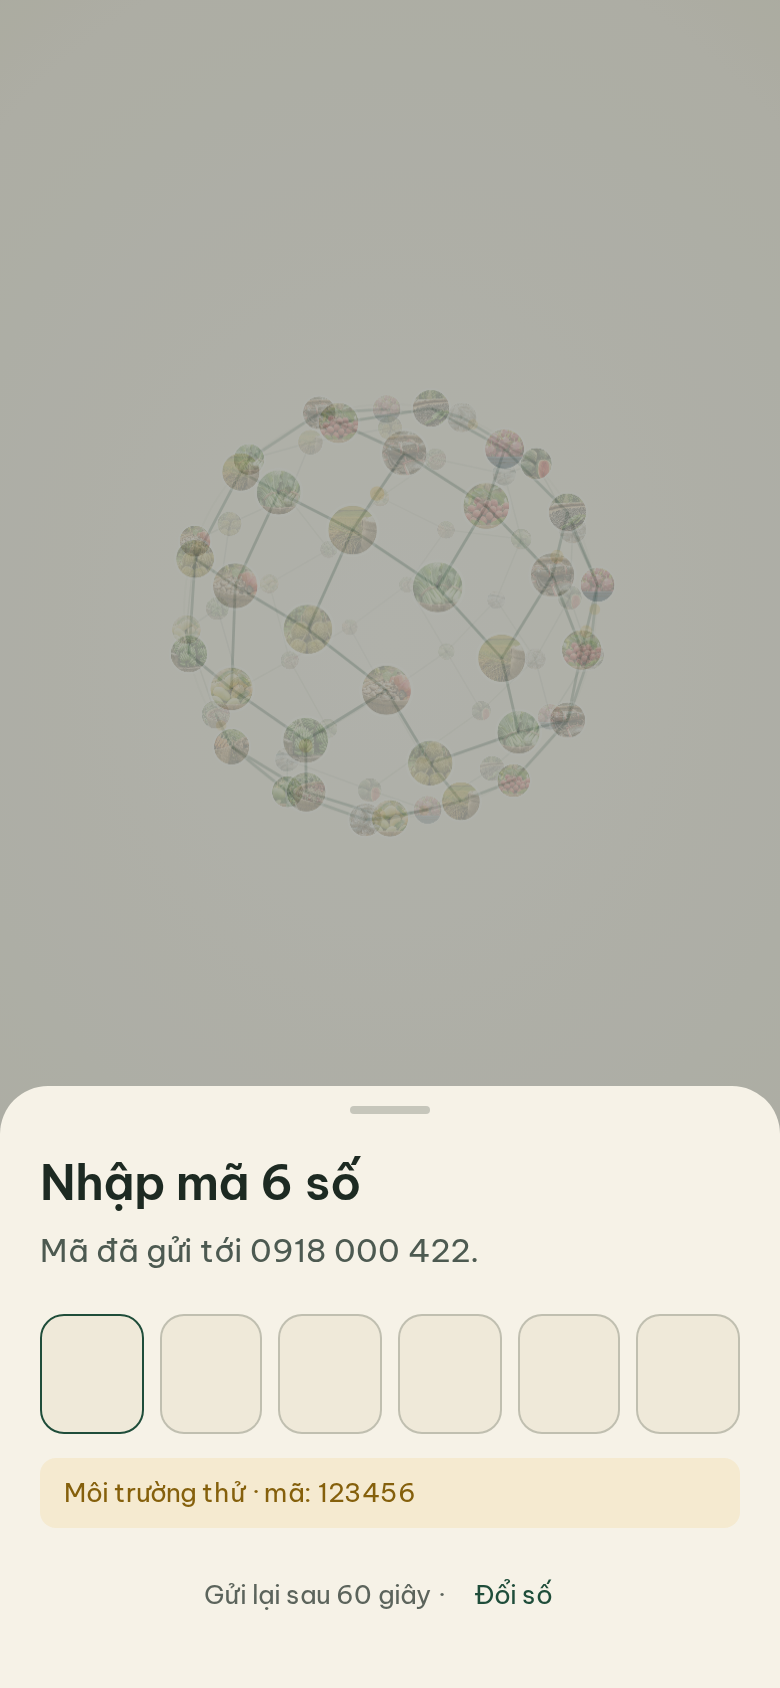
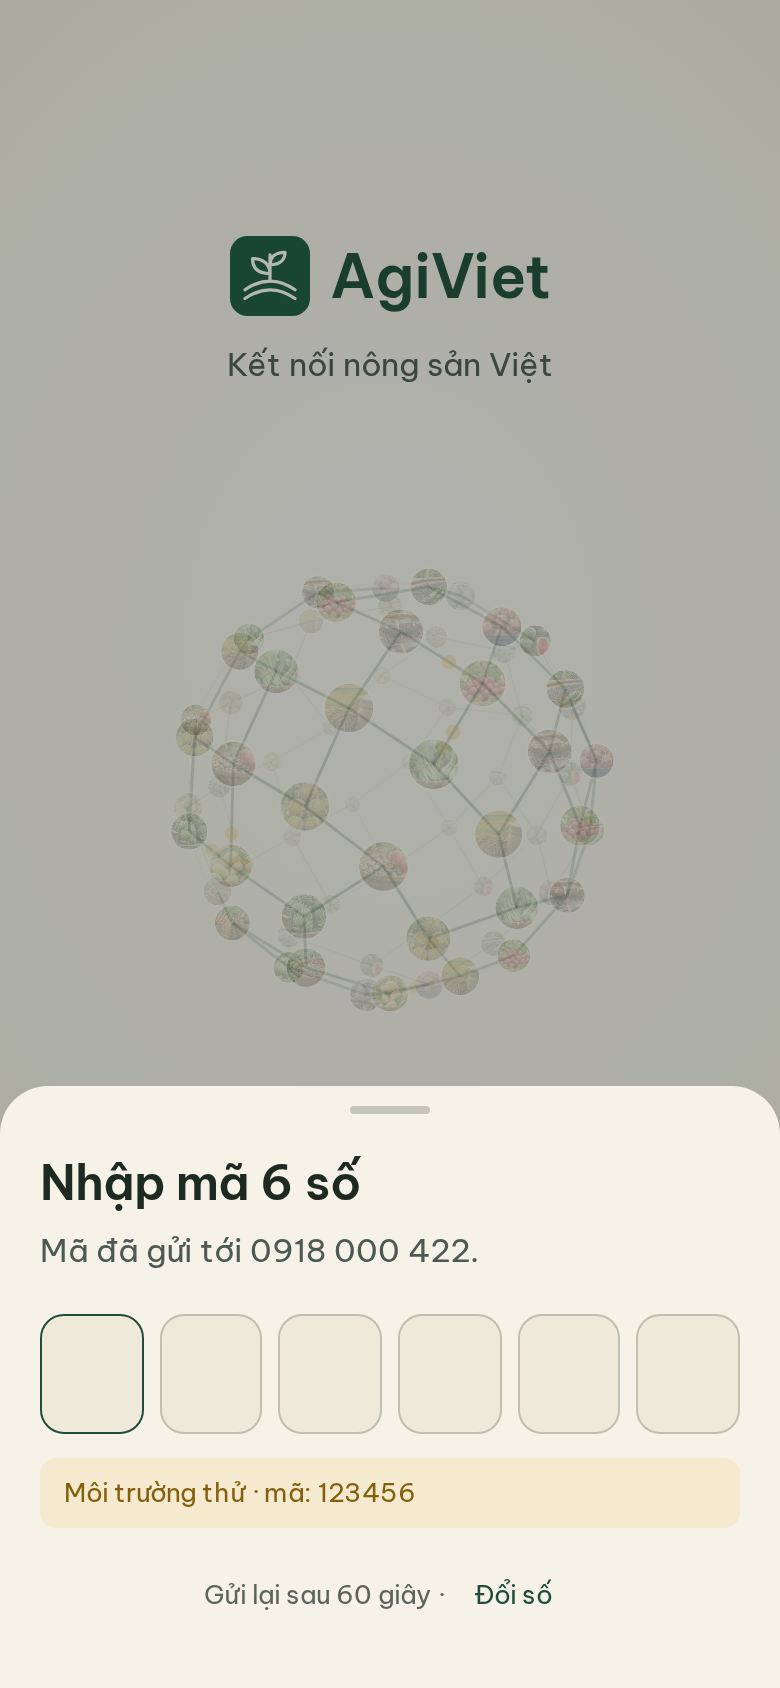
Giao diện bán: header Hỗ trợ + chuông thông báo, menu dưới 5 mục biểu tượng rỗng/tô đặc, lô lưới 2 cột; Đăng nhập: AgiViet trên quả cầu, nút ngay dưới

diff --git a/frontend/thiet-ke/ban-hom-nay.html b/frontend/thiet-ke/ban-hom-nay.html
@@ -9,13 +9,7 @@
 </head>
 <body>
 <div class="trang">
-  <header class="dau">
-    <div class="dau-trai">
-      <span class="anh-dai-dien" id="chu-dau">AV</span>
-      <div><p class="chao" id="chao">AgiViet</p><h1 id="ten-ho" style="font-size:18px">Hôm nay</h1></div>
-    </div>
-    <button class="nut-chu" type="button">Hỗ trợ</button>
-  </header>
+  <header class="dau" id="dau"></header>
 
   <main class="noi" id="noi" aria-busy="true">
     <section class="chinh co-trau" aria-live="polite">
@@ -35,7 +29,7 @@
 
     <section class="muc" aria-labelledby="t-lo">
       <h3 id="t-lo"><span>Hàng đang bán</span><a href="./ban-hang-hoa.html">Xem hết</a></h3>
-      <div class="ke-ngang" id="ds-lo"><div class="khung-tai" style="flex:0 0 72%"></div></div>
+      <div class="luoi-lo" id="ds-lo"><div class="khung-tai"></div><div class="khung-tai"></div></div>
     </section>
 
     <section class="muc" aria-labelledby="t-tien">
@@ -55,19 +49,13 @@
     </section>
   </main>
 
-  <nav class="tab" aria-label="Mục chính">
-    <a href="#" aria-current="page">Hôm nay</a>
-    <a href="./ban-hang-hoa.html">Hàng hóa</a>
-    <a href="#">Bên mua</a>
-    <a href="#">Hợp đồng</a>
-    <a href="#">Tiền</a>
-  </nav>
 </div>
 
 <script src="/assets/vendor/rive/rive.js"></script>
 <script type="module">
-import { tien, tienDu, can, esc, so, phien, layDuLieu, ANH_SP, viecCho, CHANG, chiSoChang, LUOT, dangLam, giuThamSo } from "./chung.js";
-giuThamSo();
+import { tien, tienDu, can, esc, so, phien, layDuLieu, ANH_SP, viecCho, CHANG, chiSoChang, LUOT, dangLam, giuThamSo, veDau, veTab } from "./chung.js";
+veTab("trang-chu");
+veDau(document.getElementById("dau"), { chao: "Chào bác", ten: "AgiViet", chuDau: "·" });
 const $ = (id) => document.getElementById(id);
 try {
   rive.RuntimeLoader.setWasmUrl("/assets/vendor/rive/rive.wasm");
@@ -89,9 +77,10 @@ async function mo() {
   const { me, tienTom, troi, tenSp } = d;
   const don = d.don.filter(dangLam);                       // chỉ hợp đồng còn đang chạy
   const lo = d.lo.filter((l) => l.status === "on_sale" && !l.an_tu_dong);   // lô bên mua đang thấy
-  $("chao").textContent = `Chào ${me.name.split(" ").at(-1)}`;
-  $("ten-ho").textContent = me.org.name;
-  $("chu-dau").textContent = me.name.split(" ").at(-1).charAt(0).toUpperCase();
+  // Số thông báo chưa đọc lấy từ backend (lỗi tải thì không hiện chấm)
+  const tb = await fetch("/v1/notifications", { headers: { authorization: "Bearer " + token } }).then((x) => (x.ok ? x.json() : [])).catch(() => []);
+  const chuaDoc = (Array.isArray(tb) ? tb : tb.items || []).filter((n) => !n.read_at && !n.da_doc).length;
+  veDau($("dau"), { chao: `Chào ${me.name.split(" ").at(-1)}`, ten: me.org.name, chuDau: me.name.split(" ").at(-1).charAt(0).toUpperCase(), soThongBao: chuaDoc });
   $("ngay").textContent = new Date().toLocaleDateString("vi-VN", { weekday: "long", day: "numeric", month: "numeric" });
 
   const toiBac = don.filter((d) => d.hien_thi?.toi_luot?.phia === d.phia_cua_ban);
@@ -120,19 +109,17 @@ async function mo() {
       <div class="cho-ai"><span class="dau-luot ${lop}">${esc(ai)}</span><span>${esc(viecCho(d))}</span></div></a>`;
   }).join("") : `<p class="bao" style="margin-top:12px">Khi bác đồng ý một lời chào giá, hợp đồng sẽ hiện ở đây.</p>`;
 
-  $("ds-lo").innerHTML = lo.length ? lo.map((l) => {
+  $("ds-lo").innerHTML = lo.length ? lo.slice(0, 4).map((l) => {
     const [soKg, dvKg] = can(l.available_g);
-    // Trong vòng tròn nhỏ ghi gọn theo tấn; số kg đầy đủ ở nhãn đọc màn hình
-    const kg = Number(l.available_g || 0) / 1000;
-    const [so, dv] = kg >= 1000 ? [(kg / 1000).toLocaleString("vi-VN", { maximumFractionDigits: 1 }), "tấn"] : [soKg, dvKg];
     const ti = Math.max(0, Math.min(1, Number(l.available_g) / Number(l.declared_qty_g || l.available_g || 1)));
-    const C = 2 * Math.PI * 24;
     const anh = ANH_SP(l.product_code);
     return `<a class="the-lo" href="./ban-hang-hoa.html">
-      <div class="anh ${anh ? "" : "anh-trong"}" ${anh ? `style="background-image:url(${anh})"` : ""}>${anh ? '<span class="nhan-minh-hoa">Ảnh minh họa</span>' : ""}<span class="nhan-lo">${esc(l.code)} · Loại ${esc(l.grade_code.replace(/^L/, ""))}</span></div>
-      <div class="than"><div><p class="ten">${esc(tenSp.get(l.product_code) || l.product_code)}</p><p class="phu">${l.qty_basis === "estimated" ? "Lượng ước tính" : "Đã cân"}</p></div>
-        <span class="vong" role="img" aria-label="Còn ${soKg} ${dvKg}" title="Còn ${soKg} ${dvKg}"><svg viewBox="0 0 56 56"><circle cx="28" cy="28" r="24" fill="none" stroke="var(--ke-dam)" stroke-width="5"/><circle cx="28" cy="28" r="24" fill="none" stroke="var(--la)" stroke-width="5" stroke-linecap="round" stroke-dasharray="${C * ti} ${C}"/></svg><b>${so}<small>${dv}</small></b></span></div></a>`;
-  }).join("") : `<p class="bao">Bác chưa có lô nào đang bán.</p>`;
+      <div class="anh ${anh ? "" : "anh-trong"}" ${anh ? `style="background-image:url(${anh})"` : ""}><span class="nhan-lo">${esc(l.code)}</span></div>
+      <div class="than"><p class="ten">${esc(tenSp.get(l.product_code) || l.product_code)}</p>
+        <p class="so-con">${soKg}<small>${dvKg} còn</small></p>
+        <span class="thanh-con" role="img" aria-label="Còn ${(ti * 100).toFixed(0)}% lượng đăng"><span style="width:${(ti * 100).toFixed(0)}%"></span></span>
+        <p class="phu">Loại ${esc(l.grade_code.replace(/^L/, ""))} · ${l.qty_basis === "estimated" ? "ước tính" : "đã cân"}</p></div></a>`;
+  }).join("") : `<p class="bao" style="grid-column:1/-1">Bác chưa có lô nào đang bán.</p>`;
 
   const tongHd = don.reduce((s, d) => s + Number(d.contract_value_vnd || 0), 0);
   const t = tienTom.tong, coc = +t.coc_dang_giu || 0, nhan = (+t.da_nhan_truc_tiep || 0) + (+t.ngan_hang_da_chuyen_den || 0), con = +t.con_phai_nhan || 0;

diff --git a/frontend/thiet-ke/so-vuon.css b/frontend/thiet-ke/so-vuon.css
@@ -55,9 +55,13 @@ p { margin: 0; text-wrap: pretty; }
 
 /* Khung app */
 .trang { max-width: 480px; margin: 0 auto; min-height: 100dvh; display: flex; flex-direction: column; }
-.dau { padding: var(--k4) var(--k4) var(--k3); display: flex; align-items: baseline; justify-content: space-between; gap: var(--k3); }
+.dau { padding: var(--k3) var(--k4); display: flex; align-items: center; justify-content: space-between; gap: var(--k3); position: sticky; top: 0; z-index: 5; background: var(--giay); border-bottom: 1px solid var(--ke); }
 .dau .chao { font-size: var(--c-ghi); color: var(--muc-nhat); }
-.dau h1 { font-size: var(--c-tieu); font-weight: 600; letter-spacing: -0.01em; }
+.dau h1 { font-size: 17px; font-weight: 600; letter-spacing: -0.01em; line-height: 1.25; }
+.dau-phai { display: flex; gap: 4px; }
+.nut-tron { width: 44px; height: 44px; border-radius: 50%; display: grid; place-items: center; color: var(--muc); position: relative; background: var(--giay-noi); border: 1px solid var(--ke); }
+.cham-moi { position: absolute; top: 9px; right: 10px; width: 9px; height: 9px; border-radius: 50%; background: #2f9e5b; box-shadow: 0 0 0 2px var(--giay-noi); }
+.an-chu { position: absolute; width: 1px; height: 1px; overflow: hidden; clip: rect(0 0 0 0); }
 .nut-chu { font: 600 var(--c-ghi)/1 var(--chu); color: var(--la); background: none; border: 0; padding: var(--k3) var(--k2); margin: calc(-1 * var(--k3)) calc(-1 * var(--k2)); min-height: 44px; cursor: pointer; }
 .noi { flex: 1; padding: 0 var(--k4) var(--k8); display: flex; flex-direction: column; gap: var(--k6); }
 
@@ -110,9 +114,10 @@ p { margin: 0; text-wrap: pretty; }
 
 /* Tab dưới: chữ, không biểu tượng */
 .tab { position: sticky; bottom: 0; display: grid; grid-template-columns: repeat(5, 1fr); background: var(--giay); border-top: 1px solid var(--ke-dam); padding-bottom: env(safe-area-inset-bottom); }
-.tab a { min-height: 56px; display: flex; align-items: center; justify-content: center; text-align: center; font-size: var(--c-ghi); font-weight: 600; color: var(--muc-nhat); text-decoration: none; line-height: 1.2; padding: 0 2px; position: relative; }
-.tab a[aria-current="page"] { color: var(--la); }
-.tab a[aria-current="page"]::before { content: ""; position: absolute; top: 0; left: 25%; right: 25%; height: 3px; background: var(--la); border-radius: 0 0 3px 3px; }
+.tab a { min-height: 60px; display: flex; flex-direction: column; align-items: center; justify-content: center; gap: 3px; text-align: center; font-size: var(--c-ghi); font-weight: 500; color: var(--muc-nhat); text-decoration: none; line-height: 1.15; padding: 6px 2px; position: relative; -webkit-tap-highlight-color: transparent; }
+.tab .ic { position: relative; display: grid; place-items: center; }
+.tab .ic .cham-moi { top: -2px; right: -4px; box-shadow: 0 0 0 2px var(--giay); }
+.tab a[aria-current="page"] { color: var(--la); font-weight: 600; }
 
 /* Trạng thái tải / trống / lỗi */
 .khung-tai { height: 64px; border-bottom: 1px solid var(--ke); background: linear-gradient(90deg, transparent, var(--giay-lot), transparent) 0 0 / 200% 100%; animation: tai 1.2s linear infinite; }
@@ -185,3 +190,13 @@ p { margin: 0; text-wrap: pretty; }
 .anh-trong { background: repeating-linear-gradient(135deg, var(--giay-lot) 0 10px, var(--giay) 10px 20px) !important; }
 .nhan-minh-hoa { position: absolute; right: 8px; top: 8px; font-size: 13px; padding: 2px 8px; border-radius: 999px; background: rgba(255,255,255,.85); color: var(--muc-phu); }
 .chua-co { opacity: .6; }
+
+/* Lô hàng: lưới 2 cột, không cuộn ngang */
+.luoi-lo { display: grid; grid-template-columns: 1fr 1fr; gap: 10px; margin-top: var(--k3); }
+.luoi-lo .the-lo { flex: none; }
+.luoi-lo .the-lo .anh { aspect-ratio: 4 / 3; }
+.luoi-lo .the-lo .than { padding: 10px 12px 12px; flex-direction: column; align-items: flex-start; gap: 6px; }
+.luoi-lo .so-con { font-size: 15px; font-weight: 600; font-variant-numeric: tabular-nums; }
+.luoi-lo .so-con small { font-weight: 400; color: var(--muc-nhat); margin-left: 2px; }
+.thanh-con { height: 6px; border-radius: 3px; background: var(--ke); width: 100%; overflow: hidden; }
+.thanh-con span { display: block; height: 100%; background: var(--la); }

diff --git a/frontend/thiet-ke/chung.js b/frontend/thiet-ke/chung.js
@@ -74,3 +74,35 @@ export async function layDuLieu(token) {
   const tenSp = new Map((sp.__loi ? [] : Array.isArray(sp) ? sp : sp.items || []).map((p) => [p.code, p.name_vi || p.name]));
   return { me, don, lo, tienTom, troi, tenSp };
 }
+
+// ---- Biểu tượng nét (viền rỗng) / đặc (đang chọn). Không hiệu ứng rê chuột. ----
+const IC = {
+  "trang-chu": ['<path d="M3 10.5 12 3l9 7.5V20a1 1 0 0 1-1 1h-5v-6h-6v6H4a1 1 0 0 1-1-1z"/>', '<path d="M3 10.5 12 3l9 7.5V20a1 1 0 0 1-1 1h-5v-6h-6v6H4a1 1 0 0 1-1-1z" fill="currentColor"/>'],
+  cho: ['<path d="M4 9h16l-1.2 11.1a1 1 0 0 1-1 .9H6.2a1 1 0 0 1-1-.9z"/><path d="M8.5 9V7a3.5 3.5 0 0 1 7 0v2"/>', '<path d="M4 9h16l-1.2 11.1a1 1 0 0 1-1 .9H6.2a1 1 0 0 1-1-.9z" fill="currentColor"/><path d="M8.5 9V7a3.5 3.5 0 0 1 7 0v2"/>'],
+  "dang-bai": ['<rect x="3.5" y="3.5" width="17" height="17" rx="4"/><path d="M12 8v8M8 12h8"/>', '<rect x="3.5" y="3.5" width="17" height="17" rx="4" fill="currentColor"/><path d="M12 8v8M8 12h8" stroke="#f6f2e7"/>'],
+  "tin-nhan": ['<path d="M4 5h16v11H9l-5 4z"/>', '<path d="M4 5h16v11H9l-5 4z" fill="currentColor"/>'],
+  tien: ['<rect x="3" y="6" width="18" height="13" rx="2.5"/><path d="M3 10h18M16 14.5h2"/>', '<rect x="3" y="6" width="18" height="13" rx="2.5" fill="currentColor"/><path d="M3 10h18M16 14.5h2" stroke="#f6f2e7"/>'],
+  "ho-tro": ['<path d="M4 14v-2a8 8 0 0 1 16 0v2"/><rect x="3" y="13.5" width="4.5" height="6" rx="1.5"/><rect x="16.5" y="13.5" width="4.5" height="6" rx="1.5"/><path d="M19 19.5a3 3 0 0 1-3 2.5h-3"/>', ""],
+  chuong: ['<path d="M6 16V11a6 6 0 0 1 12 0v5l1.5 2h-15z"/><path d="M10 20.5a2 2 0 0 0 4 0"/>', ""],
+};
+export const bieuTuong = (ten, dac = false) => `<svg viewBox="0 0 24 24" width="24" height="24" aria-hidden="true" fill="none" stroke="currentColor" stroke-width="1.8" stroke-linecap="round" stroke-linejoin="round">${IC[ten][dac && IC[ten][1] ? 1 : 0]}</svg>`;
+
+// Thanh menu dưới dùng chung: Trang chủ · Chợ · Đăng bài · Tin nhắn · Tiền
+const MUC_TAB = [["trang-chu", "Trang chủ", "./ban-hom-nay.html"], ["cho", "Chợ", "./ban-hang-hoa.html"], ["dang-bai", "Đăng bài", "#dang-bai"],
+  ["tin-nhan", "Tin nhắn", "#tin-nhan"], ["tien", "Tiền", "#tien"]];
+export function veTab(dangMo, soTin = 0) {
+  const nav = document.createElement("nav");
+  nav.className = "tab"; nav.setAttribute("aria-label", "Mục chính");
+  nav.innerHTML = MUC_TAB.map(([k, ten, href]) => `<a href="${href}"${k === dangMo ? ' aria-current="page"' : ""}><span class="ic">${bieuTuong(k, k === dangMo)}${k === "tin-nhan" && soTin ? `<i class="cham-moi"></i>` : ""}</span><span>${ten}${k === "tin-nhan" && soTin ? `<span class="an-chu"> (${soTin} tin mới)</span>` : ""}</span></a>`).join("");
+  document.querySelector(".trang").appendChild(nav);
+  giuThamSo(nav);
+}
+
+// Header dùng chung: ảnh đại diện + tên bên trái; Hỗ trợ (tai nghe) + Thông báo (chuông, chấm xanh) bên phải
+export function veDau(goc, { chao, ten, chuDau, soThongBao = 0 }) {
+  goc.innerHTML = `<div class="dau-trai"><span class="anh-dai-dien">${esc(chuDau)}</span><div><p class="chao">${esc(chao)}</p><h1>${esc(ten)}</h1></div></div>
+    <div class="dau-phai">
+      <a class="nut-tron" href="#ho-tro" aria-label="Hỗ trợ: gọi hoặc nhắn AgiViet">${bieuTuong("ho-tro")}</a>
+      <a class="nut-tron" href="#thong-bao" aria-label="Thông báo${soThongBao ? `, ${soThongBao} mới` : ""}">${bieuTuong("chuong")}${soThongBao ? '<i class="cham-moi"></i>' : ""}</a>
+    </div>`;
+}

diff --git a/frontend/thiet-ke/ban-hang-hoa.html b/frontend/thiet-ke/ban-hang-hoa.html
@@ -34,7 +34,7 @@
   .nhan-nho { font-size: 13px; font-weight: 600; padding: 4px 8px; border-radius: 6px; background: var(--la-nhat); color: var(--la-dam); }
   .nhan-nho.cho { background: var(--cho-nen); color: var(--cho); }
   .nhan-nho.vang { background: var(--chin-nen); color: var(--chin); }
-  .nut-noi { position: sticky; bottom: 72px; display: flex; justify-content: flex-end; pointer-events: none; padding-right: 16px; margin-top: -8px; }
+  .nut-noi { position: sticky; bottom: 76px; display: flex; justify-content: flex-end; pointer-events: none; padding-right: 16px; margin-top: -8px; }
   .nut-noi .nut { pointer-events: auto; box-shadow: 0 6px 20px rgba(31, 77, 58, .28); border-radius: 999px; gap: 8px; }
   .nut-noi svg { width: 20px; height: 20px; }
   .trong { text-align: center; padding: 32px 16px; }
@@ -43,10 +43,7 @@
 </head>
 <body>
 <div class="trang">
-  <header class="dau">
-    <div><p class="chao">Hàng hóa</p><h1 id="ten-ho" style="font-size:18px">Hàng của bác</h1></div>
-    <button class="nut-chu" type="button">Nhật ký vườn</button>
-  </header>
+  <header class="dau" id="dau"></header>
 
   <main class="noi" id="noi" aria-busy="true" style="gap:16px">
     <div class="tong-quan">
@@ -62,19 +59,14 @@
 
   <div class="nut-noi"><button class="nut chinh-nut" type="button" style="width:auto"><svg viewBox="0 0 24 24" fill="none" stroke="currentColor" stroke-width="2.4" stroke-linecap="round"><path d="M12 5v14M5 12h14"/></svg>Đăng hàng</button></div>
 
-  <nav class="tab" aria-label="Mục chính">
-    <a href="./ban-hom-nay.html">Hôm nay</a>
-    <a href="#" aria-current="page">Hàng hóa</a>
-    <a href="#">Bên mua</a>
-    <a href="#">Hợp đồng</a>
-    <a href="#">Tiền</a>
-  </nav>
 </div>
 
 <script type="module">
-import { can, esc, phien, ANH_SP, giuThamSo } from "./chung.js";
+import { can, esc, phien, ANH_SP, giuThamSo, veDau, veTab } from "./chung.js";
 const $ = (id) => document.getElementById(id);
 giuThamSo();
+veTab("cho");
+veDau($("dau"), { chao: "Chợ của bác", ten: "Hàng đang bán", chuDau: "·" });
 
 const TT = {
   on_sale: ["Đang bán", ""], draft: ["Nháp", "cho"], reserved: ["Đã giữ cho đơn", "vang"],
@@ -86,7 +78,7 @@ async function mo() {
   const get = (d) => fetch(d, { headers: { authorization: "Bearer " + token } }).then((r) => (r.ok ? r.json() : Promise.reject(new Error(`${d}: ${r.status}`))));
   const [me, lo, sp, chao] = await Promise.all([get("/v1/me"), get("/v1/lots?mine=true"), get("/v1/products").catch(() => []), get("/v1/offers").catch(() => null)]);
   const tenSp = new Map((Array.isArray(sp) ? sp : sp.items || []).map((p) => [p.code, p.name_vi || p.name]));
-  $("ten-ho").textContent = me.org.name;
+  veDau($("dau"), { chao: "Chợ của bác", ten: me.org.name, chuDau: me.name.split(" ").at(-1).charAt(0).toUpperCase() });
 
   const dangBan = lo.filter((l) => l.status === "on_sale" && !l.an_tu_dong);
   const [tc, dv] = can(dangBan.reduce((s, l) => s + Number(l.available_g || 0), 0));

diff --git a/frontend/thiet-ke/dang-nhap.html b/frontend/thiet-ke/dang-nhap.html
@@ -8,11 +8,16 @@
 <link rel="stylesheet" href="./so-vuon.css">
 <style>
   body { overflow: hidden; }
-  .vao { height: 100dvh; max-width: 480px; margin: 0 auto; display: flex; flex-direction: column; position: relative;
+  .vao { height: 100dvh; max-width: 480px; margin: 0 auto; display: flex; flex-direction: column; justify-content: center; position: relative;
     background: radial-gradient(120% 70% at 50% 38%, #fbf8f1 0%, var(--giay) 60%, #eee7d3 100%); }
-  .cau { flex: 1; min-height: 0; position: relative; }
+  .cau { height: min(56dvh, 400px); position: relative; flex: none; }
+  .tren { padding: env(safe-area-inset-top) 24px 0; text-align: center; }
+  .tren .hieu { display: inline-flex; align-items: center; gap: 10px; }
+  .tren .hieu img { width: 40px; height: 40px; }
+  .tren .hieu b { font-size: 30px; font-weight: 700; color: var(--la); letter-spacing: -0.02em; }
+  .tren .cau-ngan { margin-top: 6px; color: var(--muc-phu); font-size: 16px; }
   .cau canvas { position: absolute; inset: 0; width: 100%; height: 100%; }
-  .chan { padding: 0 24px calc(24px + env(safe-area-inset-bottom)); text-align: center; }
+  .chan { padding: 4px 24px calc(24px + env(safe-area-inset-bottom)); text-align: center; }
   .chan .hieu { display: inline-flex; align-items: center; gap: 10px; }
   .chan .hieu img { width: 36px; height: 36px; }
   .chan .hieu b { font-size: 26px; font-weight: 700; color: var(--la); letter-spacing: -0.02em; }
@@ -54,10 +59,12 @@
 </head>
 <body>
 <div class="vao">
+  <div class="tren">
+    <h1 class="hieu"><img src="/assets/logo.svg" alt=""><b>AgiViet</b></h1>
+    <p class="cau-ngan">Kết nối nông sản Việt</p>
+  </div>
   <div class="cau"><canvas id="cau" aria-label="Quả cầu ghép từ ảnh nông sản Việt Nam"></canvas></div>
   <div class="chan">
-    <div class="hieu"><img src="/assets/logo.svg" alt=""><b>AgiViet</b></div>
-    <p class="cau-ngan">Kết nối nông sản Việt</p>
     <div class="hai-nut">
       <button class="nut chinh-nut" type="button" data-mo="dang-nhap">Đăng nhập</button>
       <button class="nut vien" type="button" data-mo="dang-ky">Đăng ký bán hàng</button>
